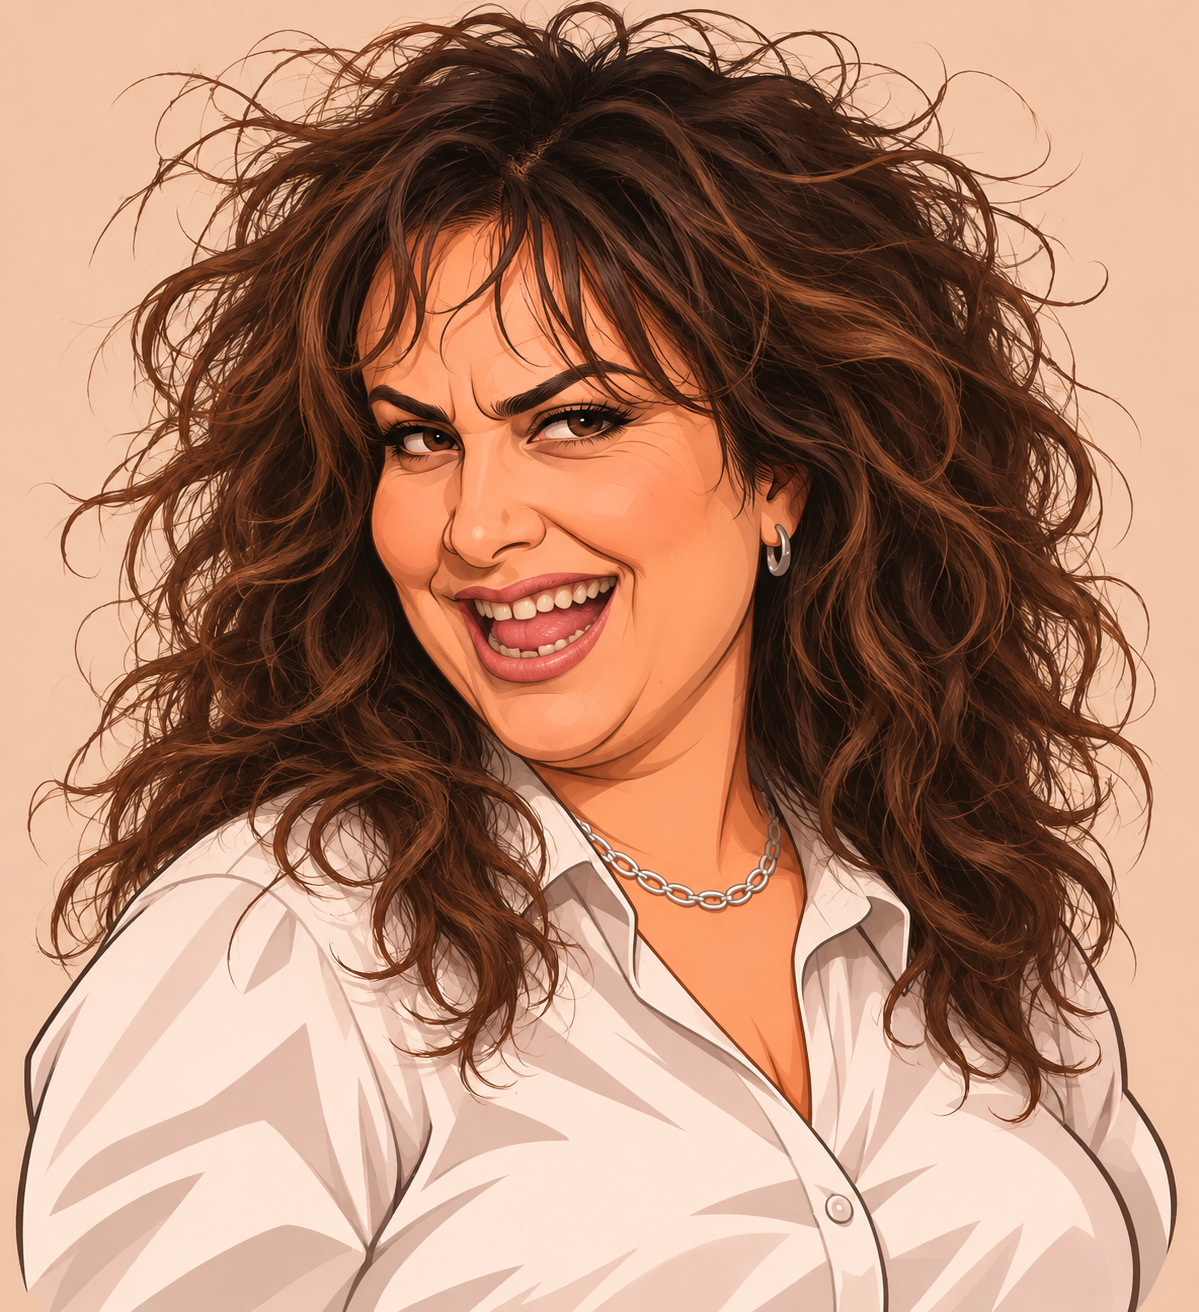
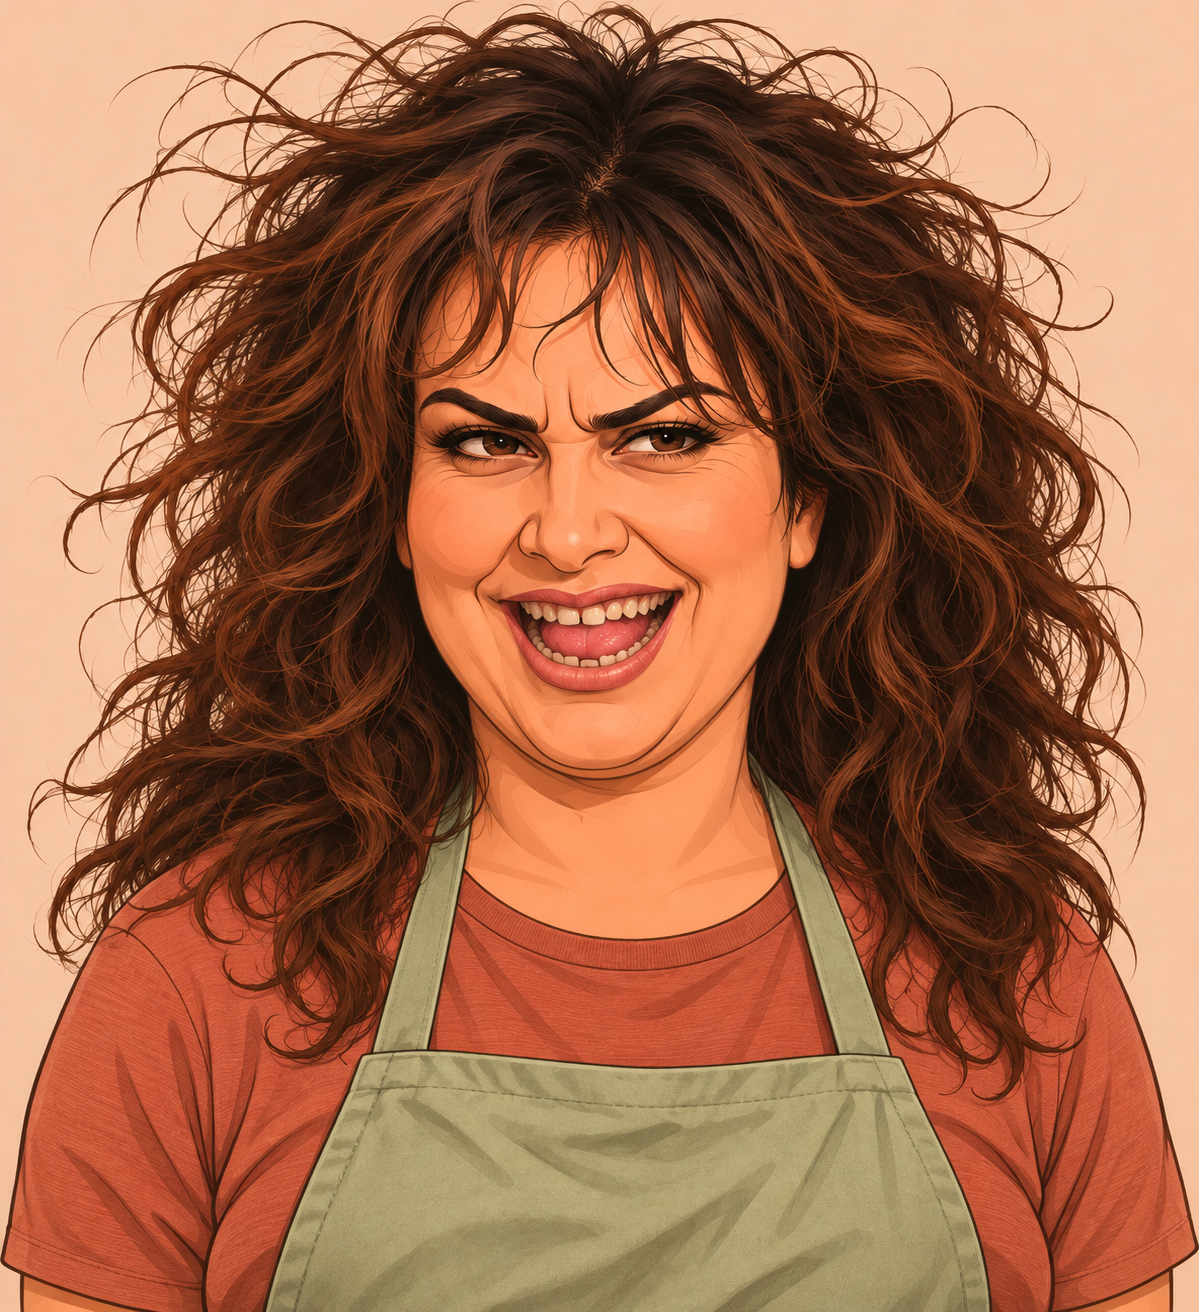
Add frontal Paola apron portrait and subtle voice-reactive motion

diff --git a/app-paola/voice.js b/app-paola/voice.js
@@ -14,9 +14,9 @@
   const raw=atob(data),bytes=new Uint8Array(raw.length);for(let i=0;i<raw.length;i++)bytes[i]=raw.charCodeAt(i);
   const count=Math.floor(bytes.length/2),view=new DataView(bytes.buffer),rate=Number(/rate=(\d+)/.exec(mime||'')?.[1])||24000;
   const buffer=s.audio.createBuffer(1,count,rate),channel=buffer.getChannelData(0);for(let i=0;i<count;i++)channel[i]=view.getInt16(i*2,true)/32768;
-  const source=s.audio.createBufferSource();source.buffer=buffer;source.connect(s.audio.destination);s.sources.add(source);source.onended=()=>s.sources.delete(source);
+  const source=s.audio.createBufferSource();source.buffer=buffer;source.connect(s.audio.destination);s.sources.add(source);source.onended=()=>{s.sources.delete(source);if(current===s&&!s.sources.size){button.dataset.state='listening';label('Pode falar. Estou ouvindo.');}};
   s.playhead=Math.max(s.audio.currentTime,s.playhead);source.start(s.playhead);s.playhead+=buffer.duration;
-  button.dataset.audioChunks=String(Number(button.dataset.audioChunks||0)+1);label('Paola está falando…');
+  button.dataset.audioChunks=String(Number(button.dataset.audioChunks||0)+1);button.dataset.state='speaking';label('Paola está falando…');
  }
  async function start(){
   const token=sessionStorage.getItem('paola.session.v1');if(!token){label('Entre na Paola para conversar.');return;}
@@ -39,9 +39,9 @@
    s.socket.onmessage=async event=>{if(s.closed)return;try{const msg=JSON.parse(typeof event.data==='string'?event.data:await event.data.text());if(s.closed)return;
     if(msg.setupComplete){s.ready=true;clearTimeout(s.timer);button.dataset.setupComplete='true';button.dataset.state='listening';label('Pode falar. Estou ouvindo.');s.socket.send(JSON.stringify({clientContent:{turns:[{role:'user',parts:[{text:'Apresente-se como Paola em uma frase curtinha e pergunte como pode ajudar.'}]}],turnComplete:true}}));}
     if(msg.error){stop('A voz ficou indisponível. Toque para tentar novamente.');return;}
-    const content=msg.serverContent;if(content?.interrupted){s.sources.forEach(source=>{try{source.stop();}catch{}});s.sources.clear();s.playhead=s.audio.currentTime;}
+    const content=msg.serverContent;if(content?.interrupted){s.sources.forEach(source=>{try{source.stop();}catch{}});s.sources.clear();s.playhead=s.audio.currentTime;button.dataset.state='listening';}
     for(const part of content?.modelTurn?.parts||[])if(part.inlineData?.data)play(s,part.inlineData.data,part.inlineData.mimeType);
-    if(content?.turnComplete)label('Pode falar. Estou ouvindo.');
+    if(content?.turnComplete&&!s.sources.size){button.dataset.state='listening';label('Pode falar. Estou ouvindo.');}
    }catch{if(current===s)stop('Não consegui entender a resposta de voz. Tente novamente.');}};
    s.socket.onerror=()=>{if(current===s)stop('Não foi possível conectar a voz. Tente novamente.');};
    s.socket.onclose=()=>{if(current===s)stop('Conversa encerrada. Toque para falar novamente.');};

diff --git a/app-paola/paola.css b/app-paola/paola.css
@@ -67,3 +67,14 @@ nav a{font-size:10.56px}
 
 /* Retrato aprovado: imagem integral, sem corte nem distorção. */
 #paola .paola-portrait{display:block;width:auto;height:auto;max-width:min(100%,520px);max-height:min(62dvh,520px);object-fit:contain;margin:0 auto 20px}
+
+/* Expressão por postura: não simula sincronização da boca. */
+#paola .paola-portrait{transform-origin:50% 88%;animation:paola-patience 7s ease-in-out infinite}
+#paola:has(.voice-button[data-state="connecting"]) .paola-portrait{animation:paola-wait 2.8s ease-in-out infinite}
+#paola:has(.voice-button[data-state="listening"]) .paola-portrait{animation:paola-listen 4.5s ease-in-out infinite}
+#paola:has(.voice-button[data-state="speaking"]) .paola-portrait{animation:paola-speak 1.8s ease-in-out infinite}
+@keyframes paola-patience{0%,100%{transform:rotate(-.15deg) translateY(0)}42%{transform:rotate(.15deg) translateY(-1px)}58%{transform:rotate(.15deg) translateY(-1px)}75%{transform:rotate(-.1deg) translateY(0)}}
+@keyframes paola-wait{0%,100%{transform:rotate(-.2deg)}50%{transform:rotate(.2deg) translateY(-1px)}}
+@keyframes paola-listen{0%,100%{transform:rotate(-.15deg) translateY(0)}50%{transform:rotate(-.1deg) translateY(-1.5px)}}
+@keyframes paola-speak{0%,100%{transform:rotate(-.2deg) translateY(0)}35%{transform:rotate(.25deg) translateY(-1.5px)}68%{transform:rotate(-.1deg) translateY(-1px)}}
+@media(prefers-reduced-motion:reduce){#paola .paola-portrait,#paola:has(.voice-button[data-state]) .paola-portrait{animation:none;transform:none}}

diff --git a/app-paola/index.html b/app-paola/index.html
@@ -5,12 +5,12 @@
   <meta name="viewport" content="width=device-width, initial-scale=1">
   <meta name="robots" content="noindex">
   <title>Paola · VINCI</title>
-  <link rel="stylesheet" href="paola.css?v=rosto-20261127">
+  <link rel="stylesheet" href="paola.css?v=avental-motion-20261127">
 </head>
 <body class="signed-out">
   <main>
     <section id="paola" aria-label="Paola">
-      <img class="paola-portrait" src="paola-rosto.png?v=20261127" alt="Paola, em ilustração caricatural" width="1199" height="1312" fetchpriority="high">
+      <img class="paola-portrait" src="paola-rosto.png?v=avental-frontal-20261127" alt="Paola, em ilustração caricatural" width="1199" height="1312" fetchpriority="high">
       
       <button class="voice-button" type="button" disabled aria-label="Falar com a Paola" aria-describedby="voice-status">
         <svg viewBox="0 0 24 24" width="24" height="24" fill="none" stroke="currentColor" stroke-width="1.7" stroke-linecap="round" aria-hidden="true"><rect x="9" y="2" width="6" height="13" rx="3"/><path d="M5 11v1a7 7 0 0 0 14 0v-1M12 19v3m-4 0h8"/></svg>
@@ -46,7 +46,7 @@
     <a href="#ambientes">Ambientes</a>
   </nav>
   <script src="dashboard.js?v=20261127" defer></script>
-  <script src="voice.js?v=20261127-kore" defer></script>
+  <script src="voice.js?v=20261127-kore-motion" defer></script>
   <script src="recuperar.js?v=user20-1" defer></script>
   <script src="central.js?v=paola-casa-sessao" defer></script>
 </body>
